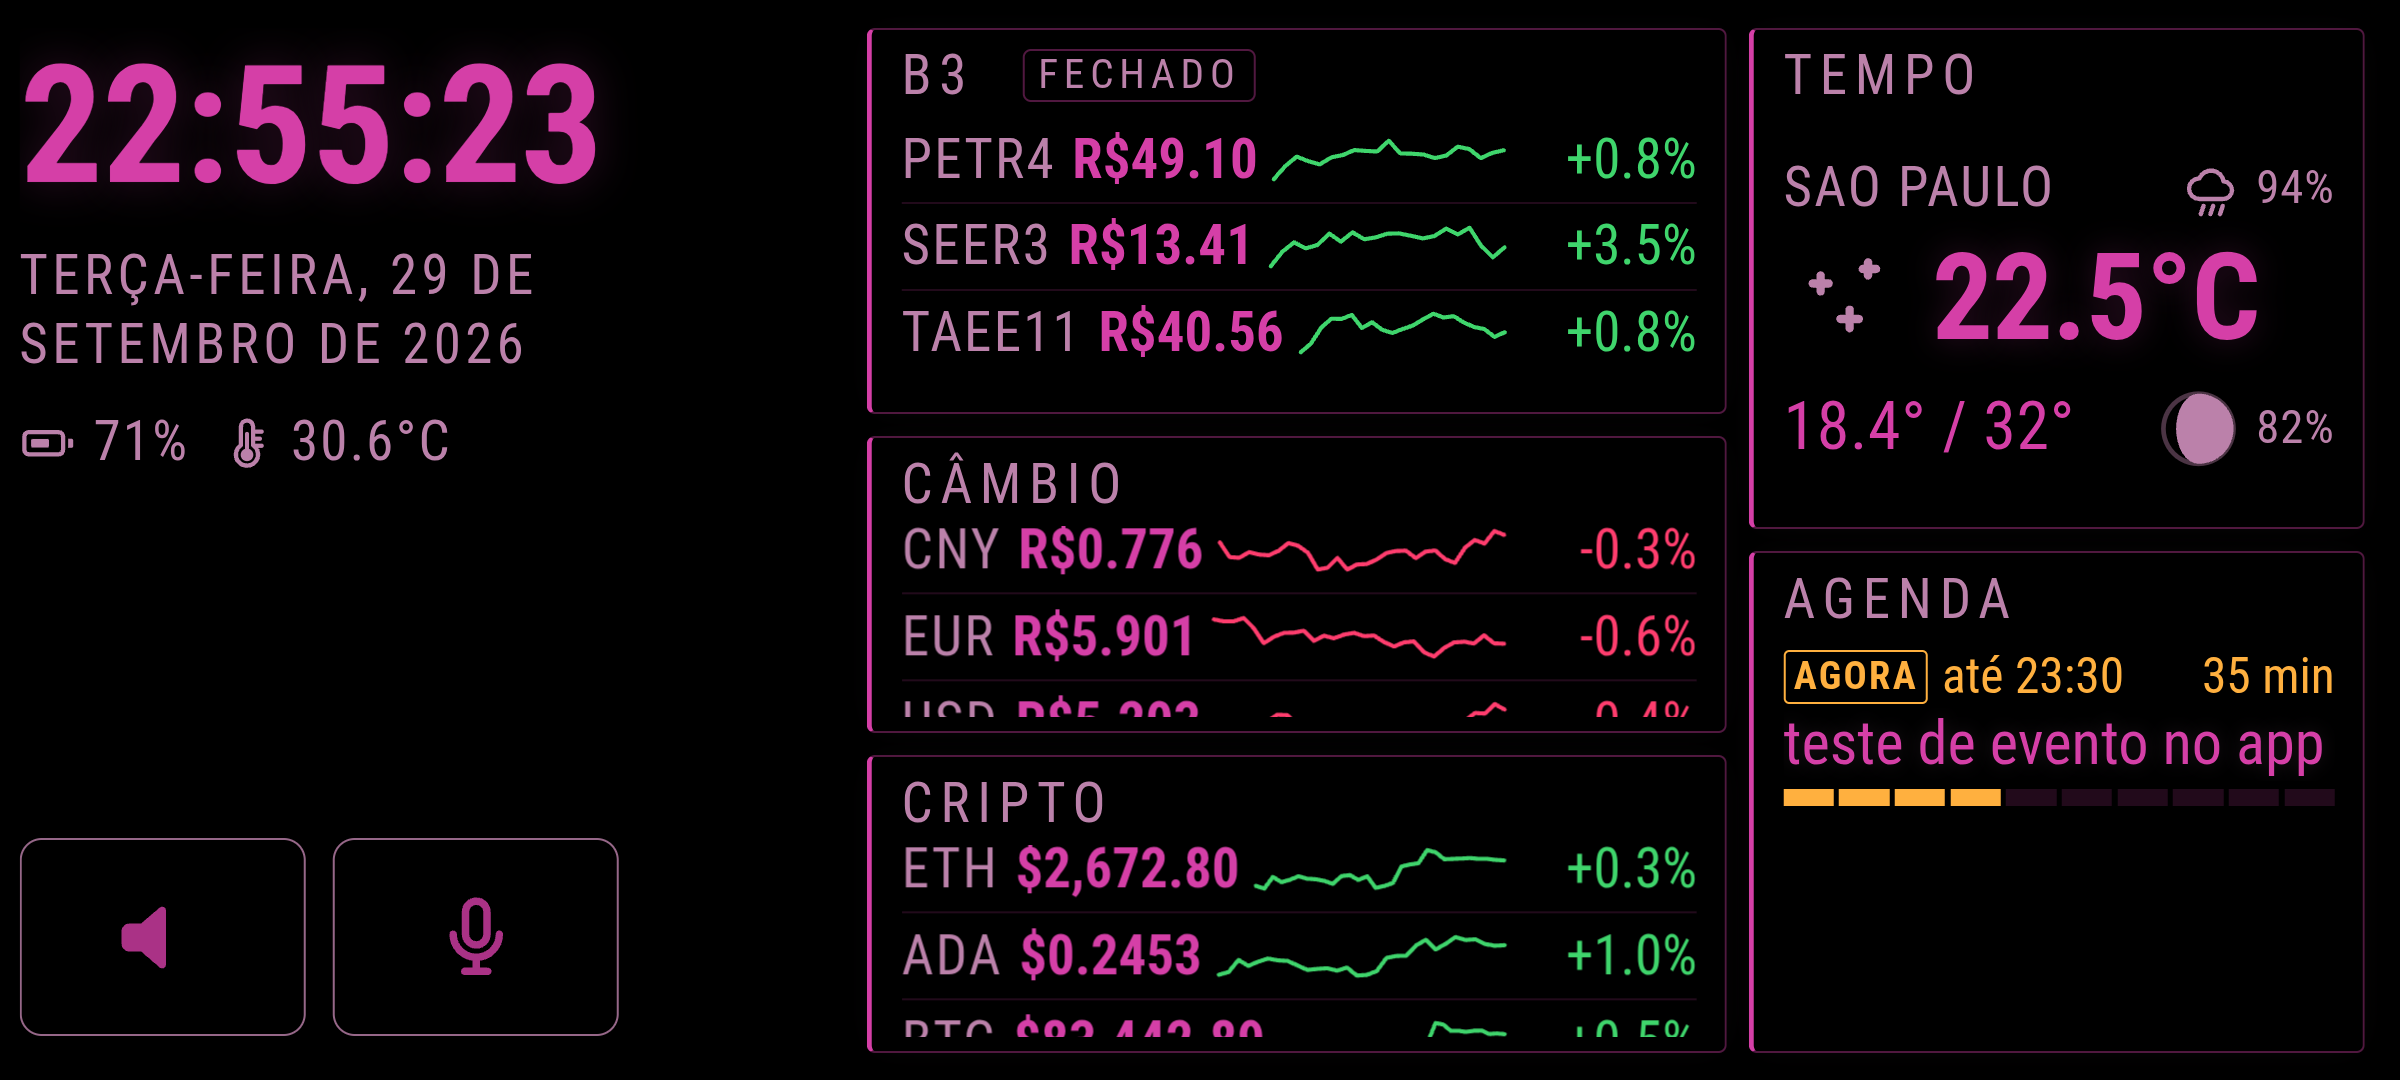
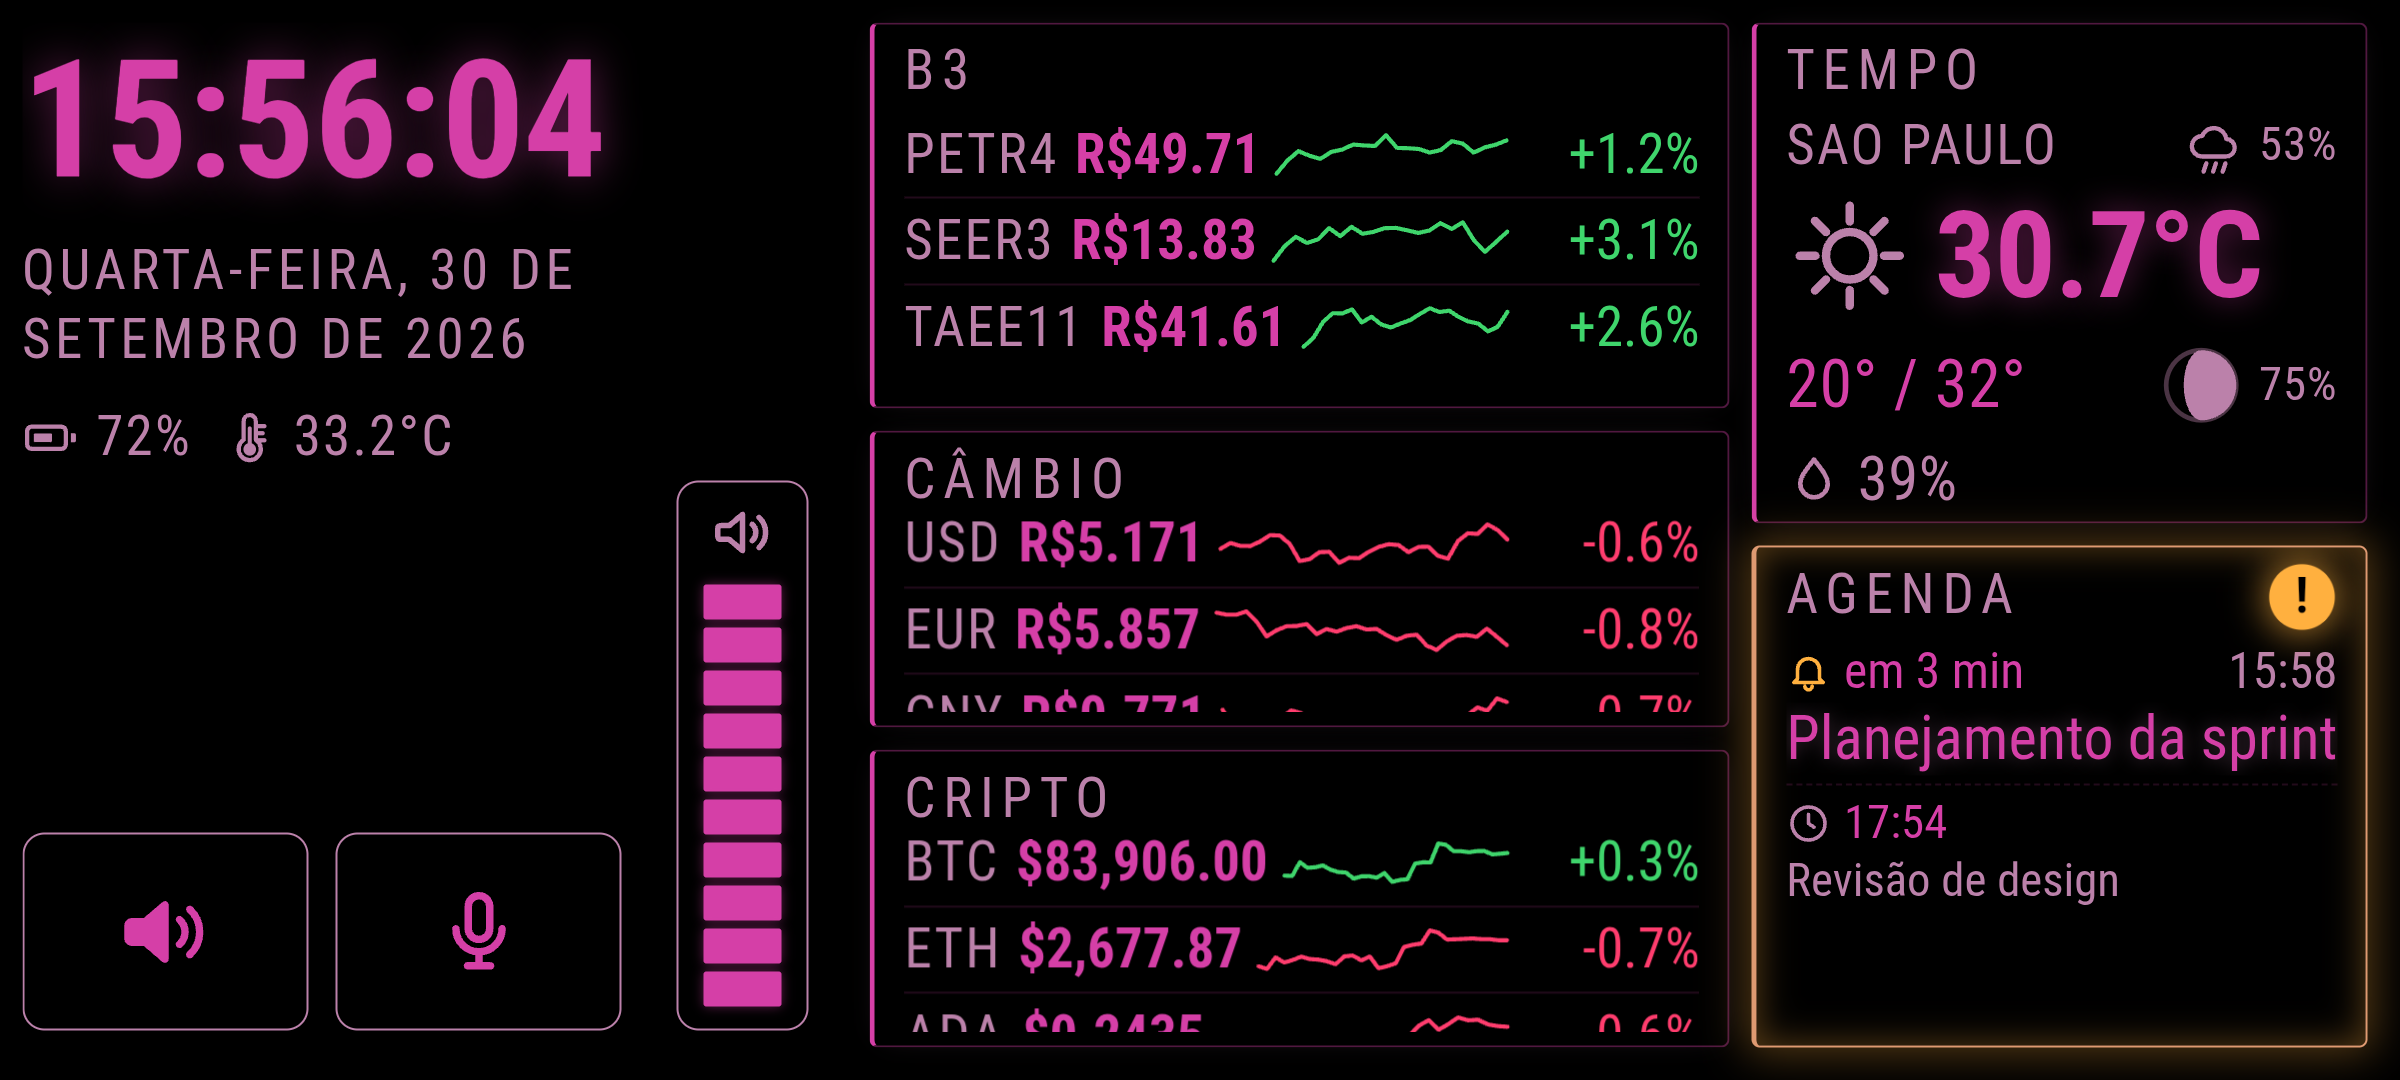
docs: captura de tela atual do painel no README (#68)

diff --git a/README.md b/README.md
@@ -10,7 +10,7 @@ Redmi Note 10 (Android 12, MIUI 14) lying in a landscape stand, powered from the
 
 ![The panel on the Redmi Note 10 in its stand: clock, B3 quotes, FX, crypto, weather and the two mute buttons](docs/images/panel.jpg)
 
-![A screen capture of the neon panel: the clock, B3 marked FECHADO after hours, FX and crypto with sparklines, the weather, and the AGENDA card with a meeting in progress, its time left and a progress bar](docs/images/panel-screen.png)
+![A screen capture of the neon panel: the clock, B3, FX and crypto with sparklines, the weather with the humidity, the mute buttons beside the volume bar, and the AGENDA card alerting three minutes before a meeting, with the bell, the orange border and the "!" (the meetings are illustrative)](docs/images/panel-screen.png)
 
 ## Why this exists
 
